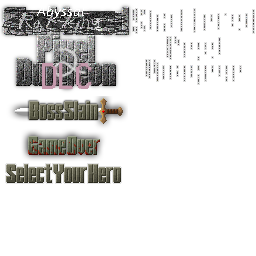
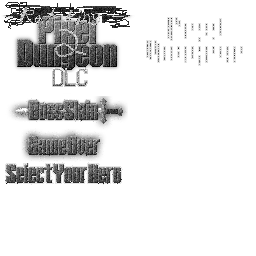
more changes to appearance

Changed region(s): [[0.0, 0.0, 1.0, 0.5], [0.0, 0.5312, 0.5, 0.7188]]

diff --git a/core/src/main/java/com/zrp200/rkpd2/scenes/WelcomeScene.java b/core/src/main/java/com/zrp200/rkpd2/scenes/WelcomeScene.java
@@ -35,7 +35,7 @@ import com.zrp200.rkpd2.ui.StyledButton;
 
 public class WelcomeScene extends PixelScene {
 
-	private static final int LATEST_UPDATE = ShatteredPixelDungeon.v0_1_1;
+	private static final int LATEST_UPDATE = ShatteredPixelDungeon.vDLC_1_2;
 
 	@Override
 	public void create() {

diff --git a/core/src/main/java/com/zrp200/rkpd2/ShatteredPixelDungeon.java b/core/src/main/java/com/zrp200/rkpd2/ShatteredPixelDungeon.java
@@ -33,6 +33,7 @@ public class ShatteredPixelDungeon extends Game {
 
 	//variable constants for specific older versions of shattered, used for data conversion
 	public static final int
+			vDLC_1_2=560,
 			v0_1_1=559,
 			v0_1_0=557,
 			v0_0_1=551,
